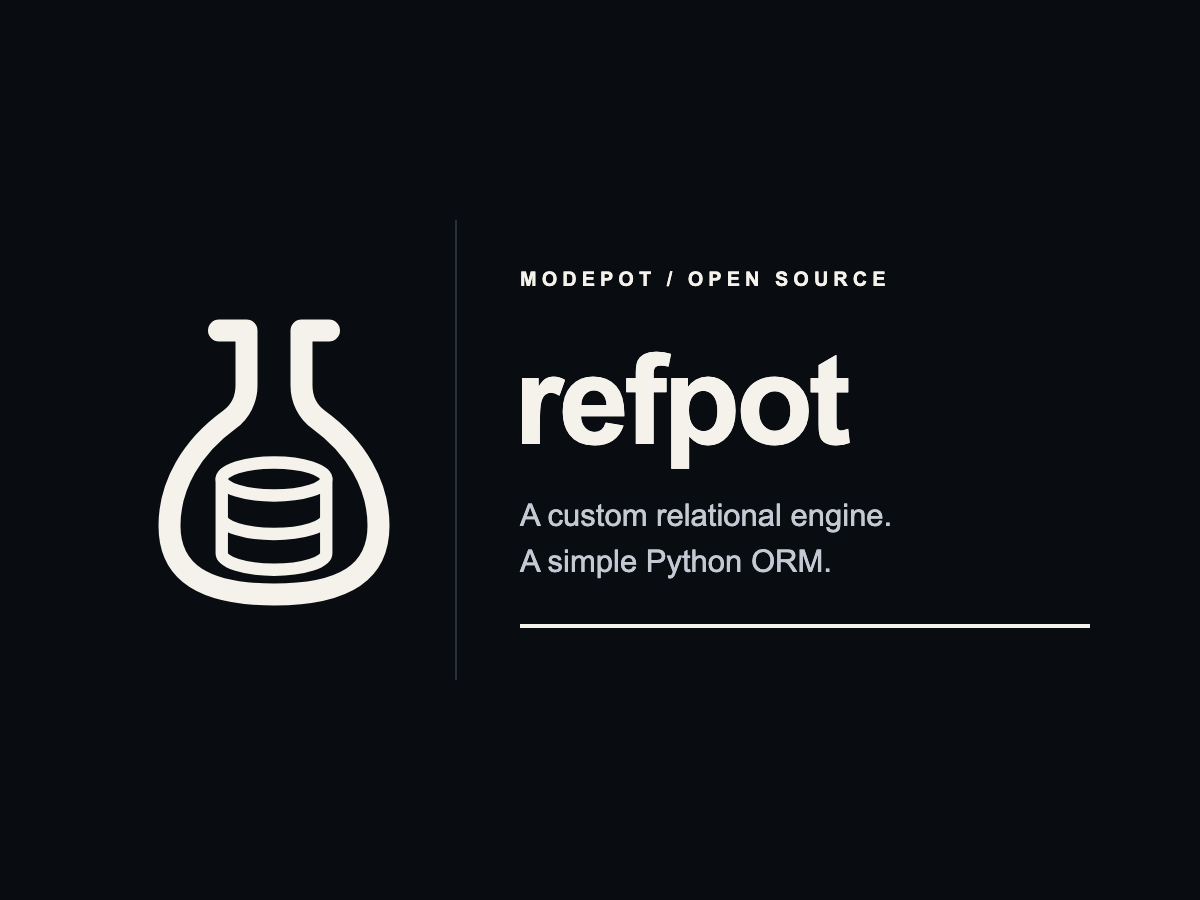
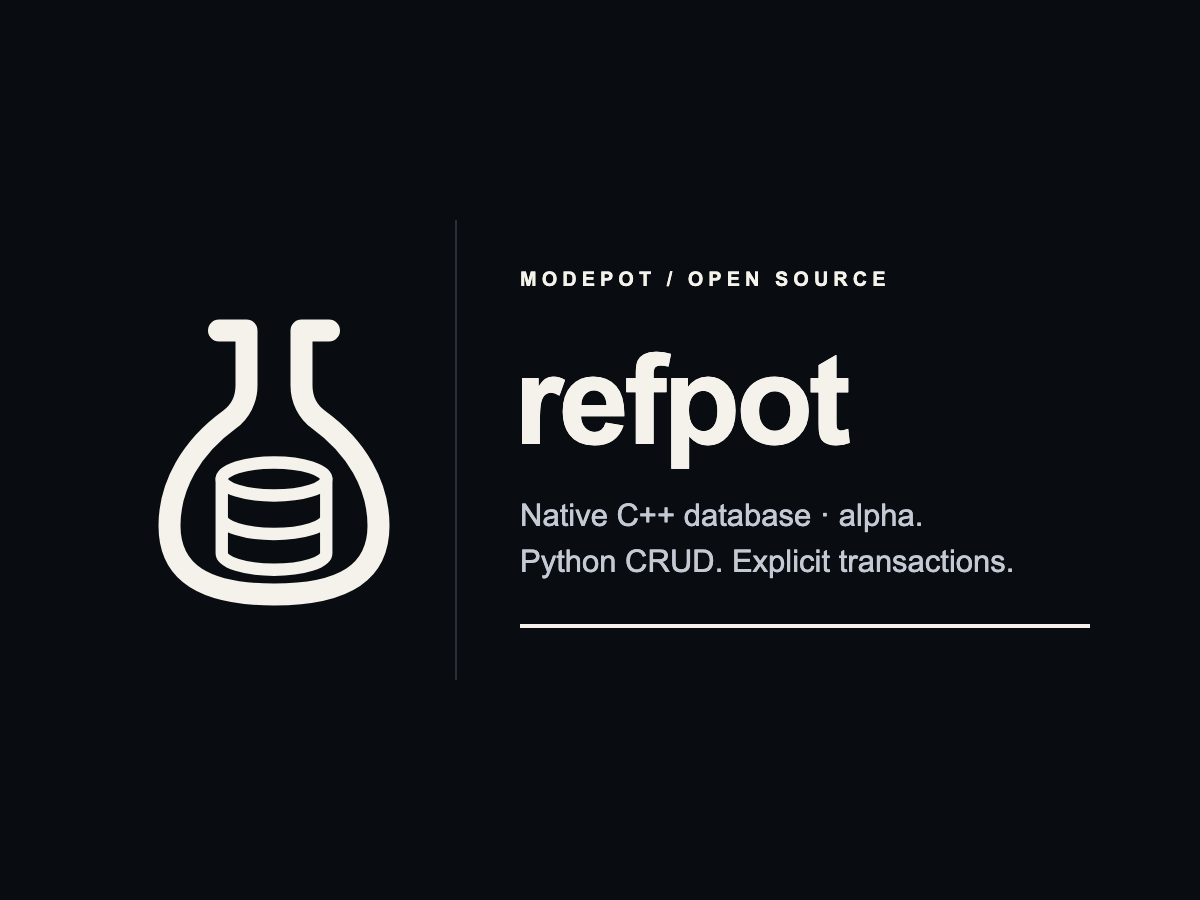
fix: align RefPot artwork and discovery with its shipped database

Changed region(s): [[0.4317, 0.56, 0.8325, 0.6533]]

diff --git a/website/tests/browser/public-info.spec.ts b/website/tests/browser/public-info.spec.ts
@@ -1,0 +1,34 @@
+import { test, expect } from '@playwright/test';
+import { readFile } from 'node:fs/promises';
+for (const width of [1280, 390]) {
+  test(`public identity and database discovery are truthful at ${width}px`, async ({ page }) => {
+    await page.setViewportSize({ width, height: 900 });
+    await page.goto('/');
+    await expect(page).toHaveTitle('Embedded Database for Python | RefPot');
+    await expect(page.locator('.framework-art img')).toHaveAttribute('src', '/refpot-lockup.png?v=public-info-1');
+    await expect(page.locator('.framework-art img')).toHaveAttribute('alt', /experimental alpha.*CRUD.*transactions/);
+    await expect(page.locator('.framework-copy')).toContainText('qualification remains limited');
+    const graph = await page.locator('script[type="application/ld+json"]').evaluateAll(nodes => nodes.map(node => JSON.parse(node.textContent || '{}')));
+    expect(JSON.stringify(graph)).toContain('C++');
+    expect(JSON.stringify(graph)).toContain('Python');
+    const image = page.locator('.framework-art img');
+    await image.scrollIntoViewIfNeeded();
+    await expect.poll(() => image.evaluate(im => (im as HTMLImageElement).complete && (im as HTMLImageElement).naturalWidth > 0)).toBe(true);
+    await image.screenshot({ path: test.info().outputPath(`lockup-${width}.png`) });
+    await page.screenshot({ path: test.info().outputPath(`home-${width}.png`), fullPage: true });
+  });
+}
+for (const [name, file] of [['lockup', '../../../docs/assets/refpot-lockup.svg'], ['social', '../../public/social-card.svg']]) {
+  test(`${name} text fits its preserved canonical canvas`, async ({ page }) => {
+    const svg = await readFile(new URL(file, import.meta.url), 'utf8');
+    await page.setContent(svg);
+    await page.evaluate(() => document.fonts.ready);
+    const overflow = await page.locator('svg text').evaluateAll(nodes => nodes.filter(node => {
+      const box = (node as SVGGraphicsElement).getBBox();
+      const root = (node as SVGElement).ownerSVGElement!;
+      return box.x < 0 || box.x + box.width > root.viewBox.baseVal.width || box.y < 0 || box.y + box.height > root.viewBox.baseVal.height;
+    }).map(node => node.textContent));
+    expect(overflow).toEqual([]);
+    await expect(page.locator('svg')).not.toContainText('A simple Python ORM');
+  });
+}

diff --git a/tests/test_public_presentation.py b/tests/test_public_presentation.py
@@ -1,0 +1,25 @@
+from pathlib import Path
+from xml.etree import ElementTree
+
+ROOT = Path(__file__).resolve().parents[1]
+
+
+def test_current_identity_describes_shipped_database_not_future_orm():
+    for path in [ROOT / "docs/assets/refpot-lockup.svg", ROOT / "website/public/social-card.svg"]:
+        root = ElementTree.fromstring(path.read_text())
+        text = " ".join(root.itertext())
+        assert "A simple Python ORM" not in text
+        assert "NOT RELEASED" not in text
+        assert "not released" not in text
+        assert "CRUD" in text
+        assert "transactions" in text.lower()
+        assert "experimental alpha" in text.lower()
+
+
+def test_homepage_is_category_qualified_and_keeps_alpha_boundary():
+    text = (ROOT / "website/src/content/docs/index.mdx").read_text()
+    assert "title: Embedded Database for Python" in text
+    assert "qualification remains limited" in text
+    assert "SQL, ORM" in text
+    assert "public-info-1" in text
+    assert "custom relational engine and simple Python ORM" not in text

diff --git a/tests/test_presentation.py b/tests/test_presentation.py
@@ -77,8 +77,8 @@ class PresentationTests(unittest.TestCase):
         for label in (
             "MODEPOT / OPEN SOURCE",
             "refpot",
-            "A custom relational engine.",
-            "A simple Python ORM.",
+            "Native C++ database · alpha.",
+            "Python CRUD. Explicit transactions.",
         ):
             self.assertIn(label, text)
         self.assertNotIn("linearGradient", {node.tag.split("}")[-1] for node in svg.iter()})

diff --git a/README.md b/README.md
@@ -1,7 +1,7 @@
 # refpot
 
 <p align="center">
-  <img src="docs/assets/refpot-lockup.png?v=wordmark-accent-1" alt="RefPot — embedded, relational, simple" width="600">
+  <img src="docs/assets/refpot-lockup.png?v=public-info-1" alt="RefPot — experimental alpha embedded database for Python" width="600">
 </p>
 
 <p align="center">Part of <a href="https://modepot.io/">ModePot</a>. &nbsp; <a href="https://refpot.modepot.io/">Project website</a> &nbsp; <a href="https://tugrul.modepot.io/">Created by Tugrul Guner</a></p>

diff --git a/website/public/docs/project-readme.md b/website/public/docs/project-readme.md
@@ -1,7 +1,7 @@
 # refpot
 
 <p align="center">
-  <img src="docs/assets/refpot-lockup.png?v=wordmark-accent-1" alt="RefPot — embedded, relational, simple" width="600">
+  <img src="docs/assets/refpot-lockup.png?v=public-info-1" alt="RefPot — experimental alpha embedded database for Python" width="600">
 </p>
 
 <p align="center">Part of <a href="https://modepot.io/">ModePot</a>. &nbsp; <a href="https://refpot.modepot.io/">Project website</a> &nbsp; <a href="https://tugrul.modepot.io/">Created by Tugrul Guner</a></p>

diff --git a/changelog.d/+truthful-public-database-identity.fixed.md b/changelog.d/+truthful-public-database-identity.fixed.md
@@ -1,0 +1,1 @@
+Correct RefPot identity and social artwork to describe the experimental native database and Python CRUD/transaction API, remove obsolete unshipped ORM and unreleased claims, and clarify database discovery metadata.
